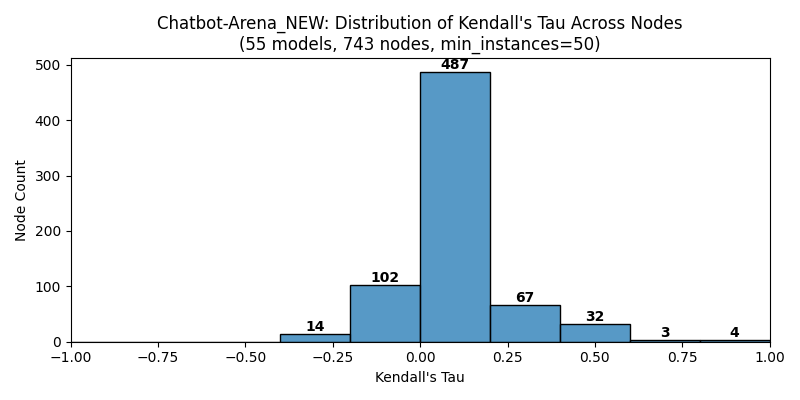
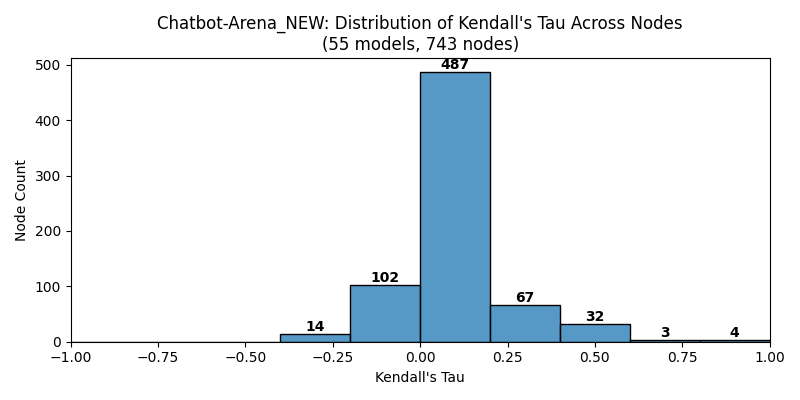
Added inter node analysis script

Changed region(s): [[0.2812, 0.09, 0.75, 0.15]]

diff --git a/scripts/inter_node_analysis.py b/scripts/inter_node_analysis.py
@@ -1,25 +1,29 @@
+from collections import Counter
+
 import matplotlib.pyplot as plt
 import numpy as np
-import seaborn as sns
+import pandas as pd
 from scipy.stats import kendalltau
 from tqdm import tqdm
 
-from utils.capability_tree import (
+from src.utils.capability_tree import (
     align_rankings,
     collect_nodes,
     load_capability_tree,
 )
-from utils.data import Dataset
-from utils.path import build_plot_path
+from src.utils.enums import Dataset
+from src.utils.path import build_plot_path
+from src.utils.plot import plot_barplot, plot_histogram
 
 
 def main(dataset: Dataset, min_instances: int) -> None:
     root = load_capability_tree(dataset)
-    nodes = collect_nodes(root, min_instances)
     global_ranking = root["ranking"]
-    num_models = len(global_ranking)
-    print(f"Number of models: {num_models}")
-    taus = []
+    nodes = collect_nodes(root, min_instances)
+
+    num_models, num_nodes = len(global_ranking), len(nodes)
+
+    taus = np.zeros(len(nodes))
 
     kwargs = {
         "desc": "Computing Kendall's Taus",
@@ -27,74 +31,103 @@ def main(dataset: Dataset, min_instances: int) -> None:
         "unit": "node",
     }
 
-    for node in tqdm(nodes, **kwargs):
+    for i, node in tqdm(enumerate(nodes), **kwargs):
         if node["ranking"] is None:
             continue
-        aligned_global_ranking, aligned_local_ranking = align_rankings(
+        aligned_global, aligned_local = align_rankings(
             global_ranking,
             node["ranking"],
         )
-        tau, _ = kendalltau(aligned_global_ranking, aligned_local_ranking)
-        taus.append(tau)
+        tau, _ = kendalltau(aligned_global, aligned_local)
+        taus[i] = tau
 
-    # Compute mean and std
-    taus_arr = np.array(taus)
-    mean_tau = taus_arr.mean()
-    std_tau = taus_arr.std()
-
-    fig, ax = plt.subplots(figsize=(8, 4))
-    sns.histplot(taus, ax=ax, bins=10)
-
-    # Annotate bar heights
-    for bar in ax.patches:
-        if (height := bar.get_height()) == 0:
-            continue
-        ax.annotate(
-            f"{int(height)}",
-            xy=(bar.get_x() + bar.get_width() / 2, height),
-            xytext=(0, 4),
-            textcoords="offset points",
-            ha="center",
-            va="bottom",
-            fontweight="bold",
-        )
-
-    # Add vertical line at mean and shaded region for +/- 1 std (if not NaN)
-    if not (np.isnan(mean_tau) and np.isnan(std_tau)):
-        ax.axvline(
-            mean_tau,
-            color="red",
-            linestyle="--",
-            label=f"Mean: {mean_tau:.3g}",
-        )
-        ax.axvspan(
-            mean_tau - std_tau,
-            mean_tau + std_tau,
-            alpha=0.2,
-            color="red",
-            label=f"±1 Std: {std_tau:.3g}",
-        )
-        ax.legend()
-
-    ax.set_xlabel("Kendall's Tau")
-    ax.set_ylabel("Node Count")
-    ax.set_title(
+    xlabel = "Kendall's Tau"
+    ylabel = "Node Count"
+    title = (
         f"{dataset}: Distribution of Kendall's Tau Across Nodes"
-        f"\n({num_models} models, {len(nodes)} nodes, min_instances={min_instances})"
+        f"\n({num_models} models, {num_nodes} nodes)"
     )
-    plt.tight_layout()
+    annotate = True
+    xlim = (-1, 1) if min(taus) < 0 else (0, 1)
 
+    plot_histogram(
+        taus,
+        xlabel=xlabel,
+        ylabel=ylabel,
+        title=title,
+        annotate=annotate,
+        mean=taus.mean(),
+        std=taus.std(),
+        xlim=xlim,
+    )
+
+    analysis = "inter_node_analysis"
+    plot_name = f"kendall_tau_distribution-min_instances={min_instances}"
     plot_path = build_plot_path(
         dataset,
-        analysis="inter_node_analysis",
-        plot_name=f"kendall_tau_distribution-min_instances={min_instances}",
+        analysis=analysis,
+        plot_name=plot_name,
     )
     plt.savefig(plot_path)
-    print(f"Plot saved to {plot_path}")
+    print(f"Saved plot to {plot_path}")
+
+    instance_counter = Counter()
+    for node in nodes:
+        if node["ranking"] is None:
+            continue
+        ranking = " > ".join(name for name, _ in node["ranking"])
+        instance_counter[ranking] += node["size"]
+
+    ranking_counts_df = pd.DataFrame(
+        instance_counter.most_common(),
+        columns=["ranking", "instance_count"],
+    )
+
+    print(f"Number of unique rankings: {(num_rankings:=len(ranking_counts_df))}")
+    ranking_counts_df.head()
+
+    # TODO: Explain why there are repeat instances in the cumulative node sizes
+    topk = min(10, len(instance_counter))
+    num_instances = root["size"]
+
+    # Rename rankings to prevent text from overflowing
+    plot_df = ranking_counts_df.head(topk).copy()
+    plot_df["ranking"] = [f"Ranking {i + 1}" for i in range(topk)]
+
+    x = "ranking"
+    y = "instance_count"
+    xlabel = "Model Ranking"
+    ylabel = "Cumulative Node Size"
+    title = (
+        f"{dataset}: Top {topk} Model Rankings by Cumulative Node Size"
+        f"\n({num_instances} instances, {num_nodes} nodes, {num_models} models, {num_rankings} rankings)"
+    )
+    annotate = True
+
+    plot_barplot(
+        plot_df,
+        x=x,
+        y=y,
+        xlabel=xlabel,
+        ylabel=ylabel,
+        title=title,
+        annotate=annotate,
+        mean=plot_df["instance_count"].mean(),
+        std=plot_df["instance_count"].std(),
+    )
+
+    plot_name = f"top_{topk}-rankings-min_instances={min_instances}"
+    plot_path = build_plot_path(
+        dataset,
+        analysis=analysis,
+        plot_name=plot_name,
+    )
+    plt.savefig(plot_path)
+    print(f"Saved plot to {plot_path}")
 
 
 if __name__ == "__main__":
-    min_instance_counts = [0, 50]
+    min_instance_counts = [50]
     datasets = [d.value for d in Dataset]
     for dataset in datasets:
         for min_instances in min_instance_counts:
